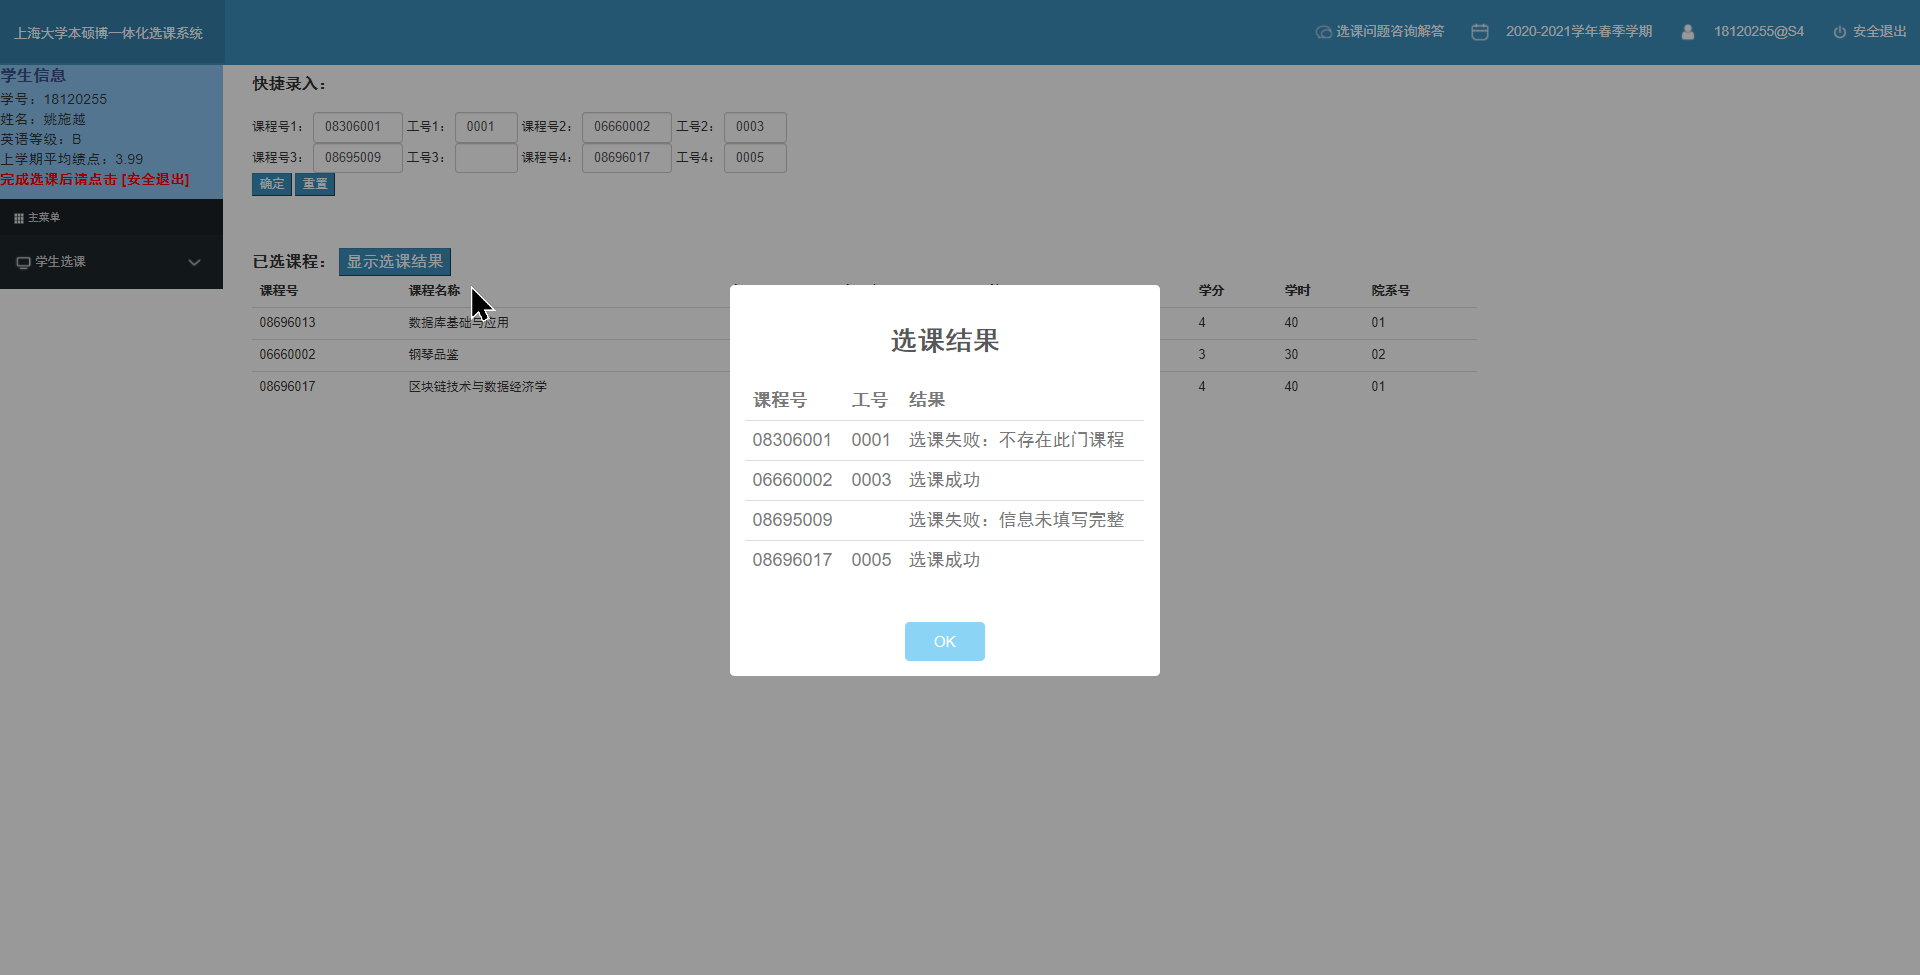
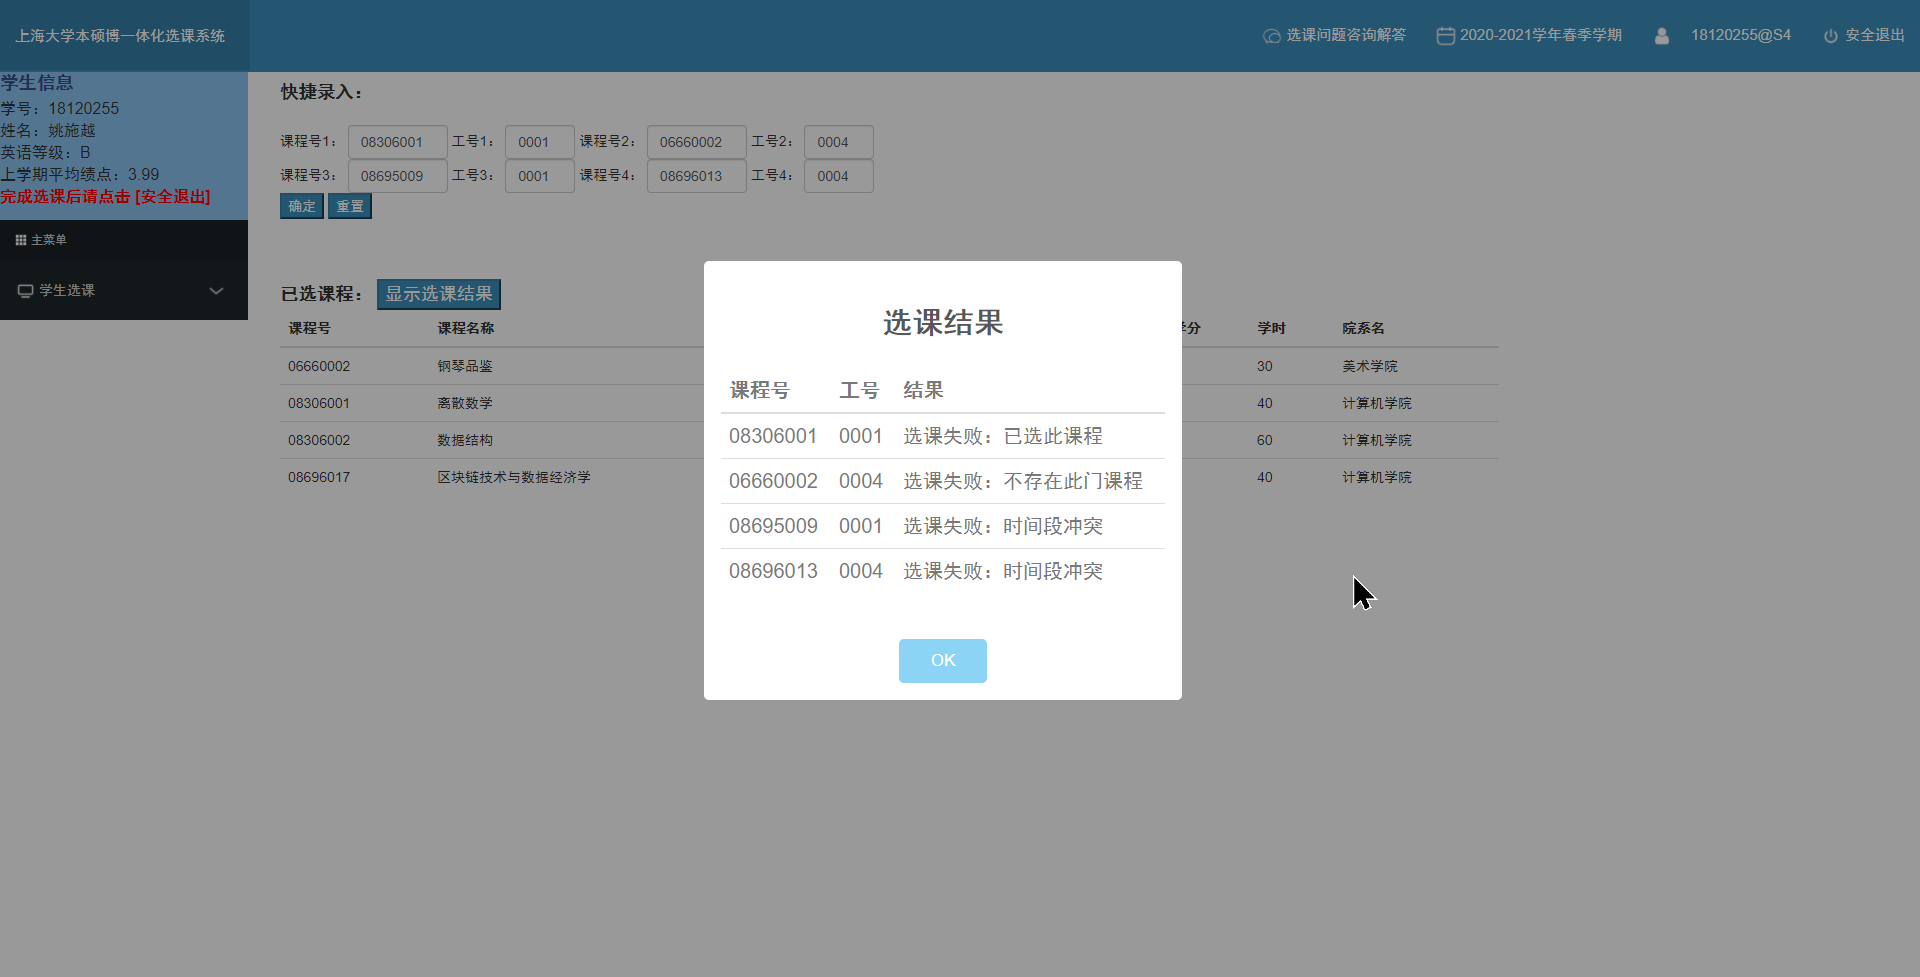
选课考虑时间段冲突，课表查询完成

diff --git a/templates/student_CourseTable.html b/templates/student_CourseTable.html
@@ -6,11 +6,39 @@
     <meta charset="UTF-8">
     <title>学生主页</title>
     <link href="{% static 'bootstrap-3.3.7-dist/css/bootstrap.min.css' %}" rel="stylesheet">
-{#    <link href="https://cdn.staticfile.org/twitter-bootstrap/3.3.7/css/bootstrap.min.css" rel="stylesheet">#}
-
+    <link href="{% static 'css/sweetalert.css' %}" rel="stylesheet">
+    <link href="{% static 'css/StyleTables.css' %}" rel="stylesheet">
+    <script type="text/javascript">
+        function showtoast()
+        {
+            swal({
+                title: "<span style=\"text-align: center; font-size: 30px\">选课结果</span>",
+                text: "{% if msg %}<table class=\"table\" align=\"center\">\n" +
+                    "            <thead>\n" +
+                    "                <tr>\n" +
+                    "                    <th style=\"text-align: left; font-size: 20px\"> 课程号 </th>\n" +
+                    "                    <th style=\"text-align: left; font-size: 20px\"> 工号 </th>\n" +
+                    "                    <th style=\"text-align: left; font-size: 20px\"> 结果 </th>\n" +
+                    "                </tr>\n" +
+                    "            </thead>\n" +
+                    "            <tbody>\n" +
+                    "                {% for m in msg %}\n"+
+                    "                    <tr>\n"+
+                    "                        <td style=\"text-align: left; font-size: 20px\"> {{m.kh}} </td>\n"+
+                    "                        <td style=\"text-align: left; font-size: 20px\"> {{m.gh}} </td>\n"+
+                    "                        <td style=\"text-align: left; font-size: 20px\"> {{m.res}} </td>\n"+
+                    "                    </tr>\n"+
+                    "                {% endfor %}\n" +
+                    "            </tbody>\n" +
+                    "        </table>"+"{% else %}<span style=\"text-align: center; font-size: 20px\">您还未进行快捷录入。</span>{% endif %}",
+                animation: "slide-from-top",
+                html: true
+            })
+        }
+    </script>
 </head>
 <body>
-{#  <div class="row">#}
+
     <header class="navbar-header" style="width: 100%; height: 70px">
         <nav class="navbar navbar-static-top" style="background: #3c8dbc;">
 {#      <div class="container-fluid" >#}
@@ -65,7 +93,7 @@
 {#      </div><!-- /.container-fluid -->#}
         </nav>
     </header>
-{#  </div>#}
+
     <div class="col-sm-3 col-md-2 sidebar" style="min-height:800px;width: 250px;padding:1px 2px 0px 0px">
         <ul class="nav nav-sidebar" style="background: #8ac3f0 ">
             <font size="4" style="color: #385090; padding:0px;font-weight: bold"> 学生信息 </font>
@@ -141,9 +169,84 @@
         </ul>
     </div>
 
+    <div class="col-sm-3 col-md-8" style="padding: 10px 15px;">
+        <table class="tblouter">
+            <tr>
+                <td style="color:Blue; font-weight:bold;">
+                     《{{ xq_now }}》课程表
+                </td>
+            </tr>
+            <tr>
+                <td style="padding:0px;">
+                <table class="tblnoborder">
+                    <thead>
+                        <tr>
+                            <th>#</th>
+                            <th> 课程号 </th>
+                            <th> 课程名称 </th>
+                            <th> 教师号 </th>
+                            <th> 教师名 </th>
+                            <th> 上课时间 </th>
+                            <th> 学分 </th>
+                            <th> 学时 </th>
+                            <th> 院系名 </th>
+                        </tr>
+                    </thead>
+                    <tbody>
+                        {% for kc in classtable %}
+                            <tr>
+                                <td style="text-align:center;"> {{kc.letter}} </td>
+                                <td style="text-align:center;"> {{kc.kh}} </td>
+                                <td> {{kc.km}} </td>
+                                <td style="text-align:center;"> {{kc.gh_id}} </td>
+                                <td> {{kc.jsmc}} </td>
+                                <td> {{kc.sksj}} </td>
+                                <td style="text-align:center;"> {{kc.xf}} </td>
+                                <td style="text-align:center;"> {{kc.xs}} </td>
+                                <td> {{kc.yxm}} </td>
+                            </tr>
+                        {% endfor %}
+                    </tbody>
+                    <tr>
+                        <td colspan="20">
+                            合计学分/Total credit：{{ xftotal }}（计算学分/Calculate credit：{{ xftotal }}）
+                        </td>
+                    </tr>
+                </table>
+            </tr>
+            <tr>
+                <td style="padding:0px;">
+                <table class="tblnoborder">
+                    <thead>
+                        <tr>
+                            <th style="width: 2em;">#</th>
+                            <th style="width: 7em;">上课时间</th>
+                            <th>一</th>
+                            <th>二</th>
+                            <th>三</th>
+                            <th>四</th>
+                            <th>五</th>
+                        </tr>
+                    </thead>
+                    <tbody >
+                        {% for ti in kb %}
+                            <tr>
+                            {% for t in ti %}
+                                <td style="text-align: center">{{ t }}</td>
+                            {% endfor %}
+                            </tr>
+                        {% endfor %}
+                    </tbody>
+                </table>
+            </tr>
+        </table>
+    </div>
+
+
     <!-- jQuery (necessary for Bootstrap's JavaScript plugins) -->
     <script src="{% static 'js/jquery-3.4.1.js' %}"></script>
     <!-- Include all compiled plugins (below), or include individual files as needed -->
     <script src="{% static 'bootstrap-3.3.7-dist/js/bootstrap.js' %}"></script>
+    <script src="{% static 'js/sweetalert-dev.js' %}"></script>
 </body>
 </html>

diff --git a/EMSystem/views.py b/EMSystem/views.py
@@ -14,6 +14,7 @@ import json
 import random
 from math import floor
 from django.db.models import Q
+import numpy as np
 
 
 # Create your views here.
@@ -935,6 +936,16 @@ def student_AddCourse(request):
         return render(request, 'student_AddCourse.html', context=context)
     elif request.method == 'POST': # 表单选课
         print(">>>POST")
+        print(">>>context before")
+        print(context)
+        context=filterEnew(context,request)
+        print(">>>context after")
+        print(context)
+        # print(">>>context['kb']",context['kb'])
+        kbtmp = np.array(context['kb']) # 转numpy数组，方便进行切片
+        kbtmp = kbtmp[:,2:] # 用于选课时暂存课程表，以此来判断时间段是否冲突，切掉序号和上课时间
+        print(">>>kbtmp",kbtmp)
+        lax = ['一', '二', '三', '四', '五']
         msg = [] # 列表存储选课成功/失败信息的整条记录
         for i in range(1, 5):
             m = {}  # 临时字典存储课号，工号和结果
@@ -954,18 +965,66 @@ def student_AddCourse(request):
                     content = obj2dict(item)
                     print(">>>content",content)
                     result_id.append(content)
-                print("result_id[0]['cid_id']",result_id[0]['cid_id'])
+                # 切出上课时间，判断时间段是否冲突
+                print("result_id[0]['sksj']",result_id[0]['sksj'])
+                flag = 0
+                for xt in content['sksj'].strip('上机').split('-'):
+                    print("xt", xt)
+                    if xt[0].isdigit():
+                        try:
+                            print("try")
+                            if (xt[1].isdigit()):
+                                second = int(xt[0:2]) - 1
+                                rest = xt[2:]
+                            else:
+                                second = int(xt[0]) - 1
+                                rest = xt[1:]
+                            while first <= second:
+                                print("pos", pos, "first", first, "second", second)
+                                print("kbtmp[first][pos]", kbtmp[first][pos])
+                                if kbtmp[first][pos] != '': # 不为空，设置不能填
+                                    flag = 1 # 不能填
+                                    print("!!!kbtmp[first][pos]", kbtmp[first][pos])
+                                else: # 可以填，先把当前课程填上
+                                    print("!!!kbtmp[first][pos]", kbtmp[first][pos])
+                                    kbtmp[first][pos] = 'wrong'  # 填充内容
+                                first = first + 1
+                            # print("kb", kb)
+                            pos = lax.index(rest[0])
+                            first = int(rest[1:]) - 1
+                        except:
+                            second = int(xt) - 1
+                            print("except")
+                            print("pos", pos, "first", first, "second", second)
+                            while first <= second:
+                                print("kbtmp[first][pos]", kbtmp[first][pos])
+                                if kbtmp[first][pos] != '':
+                                    flag = 1 # 不能填
+                                    print("!!!kbtmp[first][pos]", kbtmp[first][pos])
+                                else: # 可以填，先把当前课程填上
+                                    print("!!!kbtmp[first][pos]", kbtmp[first][pos])
+                                    kbtmp[first][pos] = 'wrong'  # 填充内容
+                                first = first + 1
+                    else:
+                        pos = lax.index(xt[0])
+                        first = int(xt[1:]) - 1
                 if E.objects.filter(cid=result_id[0]['cid_id'], xh=request.user.username).exists(): # xx学号的学生选课表内已有id课程
                     m['kh'] = context['kh' + str(i)]
                     m['gh'] = context['gh' + str(i)]
                     m['res'] = '选课失败：已选此课程'
                     msg.append(m)
                     continue
+                elif flag == 1: # 时间段有冲突
+                    m['kh'] = context['kh' + str(i)]
+                    m['gh'] = context['gh' + str(i)]
+                    m['res'] = '选课失败：时间段冲突'
+                    msg.append(m)
+                    continue
                 else:
                     item = E.objects.create(
                         # cid=result_id[0]['id'],
                         cid=C.objects.filter(kh=context['kh' + str(i)])[0],  # 课程序号
-                        xn='2020-2021学年',
+                        xn='2020-2021学年', # 当前学年
                         xq=context['xq_now'],
                         gh=T.objects.filter(gh=context['gh' + str(i)])[0], # E表的外键，T表的主键，需要使用另一张表的原型
                         # gh=context['gh' + str(i)],
@@ -973,13 +1032,6 @@ def student_AddCourse(request):
                         kh=context['kh' + str(i)],
                         xh=S.objects.filter(xh=request.user.username)[0]
                     )
-                    # item = E(
-                    #     xn='2020-2021学年',
-                    #     xq='2020-2021学年春季学期',
-                    #     gh=context['gh' + str(i)],
-                    #     kh=context['kh' + str(i)],
-                    #     xh=request.user.username
-                    # )
                     print(">>>item")
                     print(item)
                     item.save()
@@ -1064,6 +1116,10 @@ def student_CourseTable(request):
     context['xq_now'] = settings.XQ
     if request.method == 'GET':
         print(">>>GET")
+        context = filterEnew(context, request)
+        print(">>>context after")
+        print(context)
+        calGPA(context)
         return render(request, 'student_CourseTable.html', context=context)
 
 @login_required
@@ -1084,7 +1140,7 @@ def testcheckbox2(request):
 
 # 计算绩点
 def calGrade(score):
-    print(">>>calGrade",score, type(score))
+    # print(">>>calGrade",score, type(score))
     if score is None: # 还未登录
         grade = 0.0
         return grade
@@ -1184,20 +1240,27 @@ def filterE(context,request):
 def filterEnew(context,request):
     result = E.objects.filter(xq=context['xq_now'], xh=request.user.username)
     classtable = []
+    letterlist = ['A','B','C','D','E','F','G','H','I','J','K','L','M','N']
+    kb = [['', '', '', '', ''], ['', '', '', '', ''], ['', '', '', '', ''], ['', '', '', '', ''],
+          ['', '', '', '', ''], ['', '', '', '', ''], ['', '', '', '', ''], ['', '', '', '', ''],
+          ['', '', '', '', ''], ['', '', '', '', ''], ['', '', '', '', ''], ['', '', '', '', ''], ['', '', '', '', '']]
+    # print("kb", kb)
+    lax = ['一', '二', '三', '四', '五']
+    idx = 0 # 当前课程下标
     for item in result:  # 将对象转换为字典
         content = obj2dict(item)
-        print(">>>classtable content", content)
+        # print(">>>classtable content before", content)
         # 查课程
         resultC = C.objects.filter(id=content['cid_id'])
         contentC = obj2dict(resultC[0])
-        print(">>>contentC", contentC)
+        # print(">>>contentC", contentC)
         content['km'] = contentC['km']
         content['xf'] = contentC['xf']
         content['xs'] = contentC['xs']
         # 查开课
         resultO = O.objects.filter(cid=content['cid_id'],gh=content['gh_id']) # 同一课程序号加工号只能在开课表查出一门课程，而且选课只能选一门
         contentO = obj2dict(resultO[0])
-        print(">>>contentO", contentO)
+        # print(">>>contentO", contentO)
         content['sksj'] = contentO['sksj']
         # 查教师名称
         resultT = T.objects.filter(gh=content['gh_id']) # 一个工号对应一个教师
@@ -1207,9 +1270,50 @@ def filterEnew(context,request):
         resultD = D.objects.filter(yxh=contentC['yxh_id'])
         yxm = obj2dict(resultD[0])['yxm']
         content['yxm'] = yxm
-        classtable.append(content)
         # 计算绩点
         content['grade'] = calGrade(content['zpcj'])
+        # 添加字母序号
+        content['letter'] = letterlist[idx]
+        # print(">>>classtable content after", content)
+        classtable.append(content)
+        # 提取上课时间
+        for xt in content['sksj'].strip('上机').split('-'):
+            # print("xt", xt)
+            if xt[0].isdigit():
+                try:
+                    if (xt[1].isdigit()):
+                        second = int(xt[0:2]) - 1
+                        rest = xt[2:]
+                    else:
+                        second = int(xt[0]) - 1
+                        rest = xt[1:]
+                    while first <= second:
+                        # print("pos", pos, "first", first, "second", second)
+                        kb[first][pos] = content['letter'] # 填充内容
+                        first = first + 1
+                    # print("kb", kb)
+                    pos = lax.index(rest[0])
+                    first = int(rest[1:]) - 1
+                except:
+                    second = int(xt) - 1
+                    # print("pos", pos, "first", first, "second", second)
+                    while first <= second:
+                        kb[first][pos] = content['letter']
+                        first = first + 1
+            else:
+                pos = lax.index(xt[0])
+                first = int(xt[1:]) - 1
+        idx = idx + 1
+    # print(">>>kb",kb)
+    time = ['8:00 ~ 8:45', '8:55 ~ 9:40', '10:00 ~ 10:45', '10:55 ~ 11:40', '12:10 ~ 12:55', '13:05 ~ 13:50', '14:10 ~ 14:55',
+            '15:05 ~ 15:50', '16:00 ~ 16:45', '16:55 ~ 17:40', '18:00 ~ 18:45', '18:55 ~ 19:40', '19:50 ~ 20:35']
+    cnt = 1 # 课程表序号
+    for i, j in zip(kb, time):
+        i.insert(0, cnt)
+        i.insert(1, j)
+        # print(">>>i insert",i)
+        cnt = cnt + 1
+    context['kb'] = kb
     print(">>>classtable")
     print(classtable)
     context['classtable'] = classtable
@@ -1217,16 +1321,19 @@ def filterEnew(context,request):
 
 # 计算总学分和均绩
 def calGPA(context):
-    print(">>>calGPA")
-    print(">>>classtable",context['classtable'])
+    # print(">>>calGPA")
+    # print(">>>classtable",context['classtable'])
     xftotal = 0 # 总计学分
     gradetotal = 0 # 所有课程绩点总和
     for i in context['classtable']:
         xftotal = xftotal + i['xf']
         gradetotal = gradetotal + i['xf'] * i['grade']
-    print(">>>xftotal",xftotal)
-    print(">>>gradetotal",gradetotal)
-    GPA = round(gradetotal / xftotal + 0.001, 2) # 四舍五入
+    # print(">>>xftotal",xftotal)
+    # print(">>>gradetotal",gradetotal)
+    if xftotal != 0:
+        GPA = round(gradetotal / xftotal + 0.00001, 2) # 四舍五入
+    else: # 防止除0
+        GPA = 0
     print(">>>gradetotal / xftotal",gradetotal / xftotal)
     print(">>>GPA",GPA)
     context['xftotal'] = xftotal

diff --git a/README.md b/README.md
@@ -18,7 +18,7 @@ https://oauth.shu.edu.cn/static/images/logo-white.png
 学生选课针对当前学期即2020-2021学年春季学期，使用课程号、工号、学期和学号对E表进行查询。首先利用这四个字段在E表中找出id，再分别到C、O、T表中通过id找出课程名称、上课时间和教师名称。<br>
 是否要考虑一个老师一学期同一门课开两次的情况（如信号处理）。<br>
 解决重复选课的bug。<br>
-**选课时间段冲突。**
+~~**选课时间段冲突。**~~
 ### ~~学生端退课student_DeleteCourse选课~~
 ![image](https://github.com/Badw0lf613/EMSystem/blob/master/static/images/tk.png)
 复选框效果完成，jQuery方法删除对应的课程，对于未选择课程和选课成功均设置弹窗。
@@ -26,6 +26,7 @@ https://oauth.shu.edu.cn/static/images/logo-white.png
 ![image](https://github.com/Badw0lf613/EMSystem/blob/master/static/images/cjcx.png)
 触发器：更新GPA
 ### 学生端课表student_CourseTable
+![image](https://github.com/Badw0lf613/EMSystem/blob/master/static/images/kb.png)
 ### 院系号变院系
 ### C变O
 方案：老师发申请，放入一张新表（一个字段表示课程状态，课程变开课表|认领页面|申请页面），管理员去读，类似于借阅表，管理员给课号，输入课名时（触发器），不重复就可以
